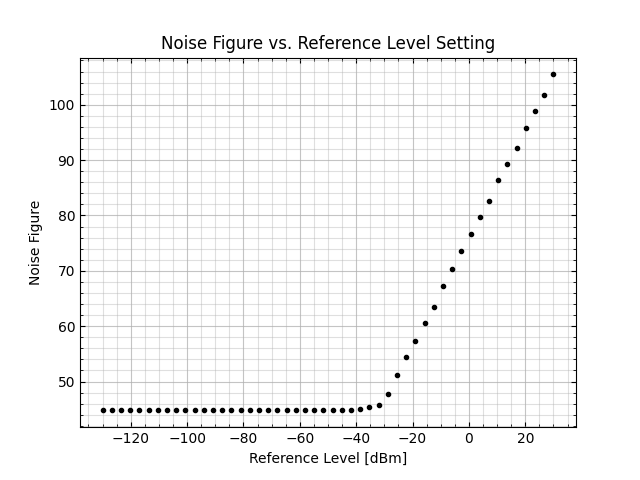
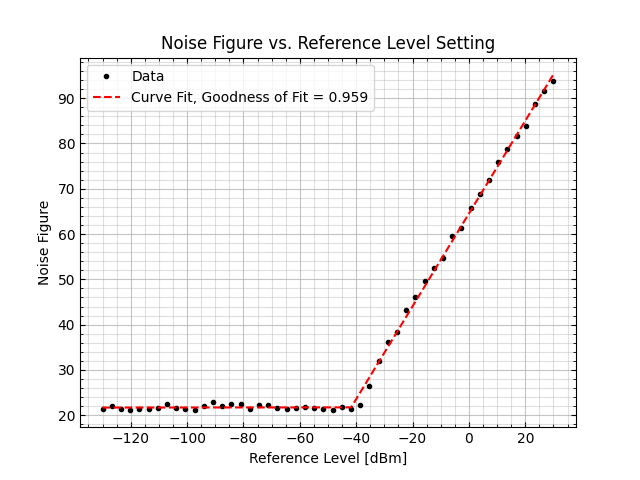
Noise figure updates

Changed region(s): [[0.0312, 0.125, 0.9062, 0.9062]]

diff --git a/testbed.py b/testbed.py
@@ -336,31 +336,21 @@ def sr_test_fft(cf=2.437e9, refLevel=-60, recordLength=1024):
     sr_test_plot(freqArr, meanFFTArr)
     
 # Master function for gain characterization
-def gain_char(minRL, maxRL, numRLs, which="none", hist=False,
+def gain_char(minRL, maxRL, numRLs, noiseFig=False, trunc=False, fftPlot=False, hist=False,
     normTest=False, enbw=False):
-
-    if which is not "figure" and not "power" and not "none":
-        print("Choose either figure, power, or none for the which parameter")
-        return None
 
     # Data collection settings
     recordLength = 1024 # IQ samples per block
     numSets = 1024 # Number of IQ blocks
     cf = 3.6e9 # Center frequency
     iqBw = 40e6 # IQ Bandwidth
-
-    # Variables for calculations
-    k = 1.380649e-23 # J/K, Boltzmann constant
-    T = 294.261 # K, ambient temperature
     
     # Create necessary variables
     compRecLen = numSets*recordLength
     refLev = np.linspace(minRL, maxRL, numRLs)
-    avgNoisePwr = np.zeros_like(refLev)
     iqArr = np.zeros((len(refLev), compRecLen), dtype=complex)
     FFTs = np.zeros((len(refLev), recordLength))
     freqArr = np.zeros((len(refLev), recordLength))
-    ENBW = np.zeros(len(refLev))
 
     connect()
 
@@ -386,48 +376,28 @@ def gain_char(minRL, maxRL, numRLs, which="none", hist=False,
         
     disconnect()
 
-    #if which is not "none":
-    #    # Truncate freq domain data to the set bandwidth (remove tails)
-    #    lowBound = findNearest(freqArr, cf - iqBw/2)
-    #    highBound = findNearest(freqArr, cf + iqBw/2)
-    #    newMeanFFTArr = np.zeros((len(refLev), highBound + 1 - lowBound))
-    #    newFreqArr = np.zeros_like(newMeanFFTArr)
-    #    for (i, arr) in enumerate(freqArr):
-    #        newFreqArr[i] = arr[lowBound:highBound + 1]
-    #    for (i, arr) in enumerate(meanFFTArr):
-    #        newMeanFFTArr[i] = arr[lowBound:highBound + 1]##
-
-    #    # Calculate mean noise powers
-    #    for (i, FFT) in enumerate(newMeanFFTArr):
-    #        avgNoisePwr[i] = np.mean(FFT)#
-
-        # Plot desired noise quantity vs ref level
-       #  noise_plot(refLev, avgNoisePwr, thermalNoise, which=which)
+    if trunc:
+        # Truncate freq domain data to the set bandwidth (remove tails)
+        lowBound = findNearest(freqArr, cf - iqBw/2)
+        highBound = findNearest(freqArr, cf + iqBw/2)
+        newFFTs = np.zeros((len(refLev), highBound + 1 - lowBound))
+        newFreqArr = np.zeros_like(newFFTs)
+        for (i, arr) in enumerate(freqArr):
+            newFreqArr[i] = arr[lowBound:highBound + 1]
+        for (i, FFT) in enumerate(FFTs):
+            newFFTs[i] = FFT[lowBound:highBound + 1]
+        # Replace existing arrays
+        FFTs = newFFTs
+        freqArr = newFreqArr
 
     # Calculate noise figures
-    for (i, RL) in enumerate(refLev):
-        linFFT = 10**(FFTs[i]/10) # translate back to linear domain
-        integral = integ.cumtrapz(np.abs(linFFT/np.max(linFFT))**2, freqArr[i])
-        ENBW[i] = integral[-1]
-        avgNoisePwr[i] = np.mean((np.real(iqArr[i])**2 + np.imag(iqArr[i])**2)/100) # avg power, watts
-    print(ENBW)
-    nf = avgNoisePwr/(k*T*ENBW) # dimensionless, from non-dB
-    nf_dBm = 10*np.log10(nf) # convert to dBm
-    
-    # Plot noise figure vs. ref level
-    fig = plt.figure()
-    ax = fig.add_subplot(111)
-    ax.plot(refLev, nf_dBm, 'k.', label="Noise Figure")
-    ax.set_xlabel("Reference Level [dBm]")
-    ax.set_ylabel("Noise Figure")
-    ax.set_title("Noise Figure vs. Reference Level Setting")
-    ax.grid(which="major", axis="both", alpha=0.75)
-    ax.grid(which="minor", axis="both", alpha=0.4)
-    plt.show()
+    if noiseFig:
+        nf = gainChar_noiseFig(freqArr, FFTs, iqArr, refLev)
+        noiseFig_compPlot(nf, refLev)
 
     # Plot FFT:
-    fft_plot(freqArr[0], FFTs[0], "Avg. Noise Power, RL = -130dBm")
-    fft_plot(freqArr[-1], FFTs[-1], "Avg. Noise Power, RL = +30dBm")
+    if fftPlot:
+        gainChar_fftPlot(freqArr, FFTs, refLev)
 
     # Plot IQ histograms
     if hist:
@@ -437,73 +407,86 @@ def gain_char(minRL, maxRL, numRLs, which="none", hist=False,
     if normTest:
         gainChar_normTests(iqArr, refLev)
 
-    # Calculate equivalent noise bandwidth
-    if enbw:
-        gainChar_enbw(meanFFTArr, refLev)
+def gainChar_noiseFig(freqs, FFTs, IQ, refLevels):
+    # Variables for calculations
+    k = 1.380649e-23 # J/K, Boltzmann constant
+    T = 294.261 # K, ambient temperature
+    avgPwr = np.zeros_like(refLevels)
+    ENBW = gainChar_ENBW(freqs, FFTs, refLevels)
+    for (i, RL) in enumerate(refLevels):
+        avgPwr[i] = np.mean((np.abs(IQ[i])**2)/50) # avg power, watts
 
-def noise_plot(refLev, avgNoisePwr, thermalNoise, which="figure"):
-    # Plots and fits noise vs. ref level data. Use for either noise figure or 
-    # mean noise power vs. ref level, specified by "which" parameter
+    print(ENBW)
 
-    # Handle cases
-    if which == "figure":
-        ydata = avgNoisePwr - thermalNoise
-        quantity = "Noise Figure" # used for title and labels
-        unit = "" # dimensionless
-        p0 = np.array([-30, -110/thermalNoise, 0, 1]) # param guess for fit
-        sigma_y = np.ones_like(ydata)/10 # 1/100 fractional error
-        absErr = False
-    elif which == "power":
-        ydata = avgNoisePwr
-        quantity = "Mean Noise Power"
-        unit = " [dBm]" # appended to quantity for axis label
-        p0 = np.array([-30, -110, 0, 1])
-        sigma_y = np.ones_like(ydata)*4.2 # 4.2 dBm absolute error
-        absErr = True
-    else:
-        print("Please enter either figure or power for the which parameter")
-        return None
+    # Calculate noise figure
+    nf = avgPwr/(k*T*ENBW) # dimensionless, Watts/Watts
+    nf_dBm = 10*np.log10(nf) # convert to dBm
 
-    # Model function for fitter
-    def noise_model(x, x0, y0, k1, k2):
+    return nf_dBm
+
+def noiseFig_compPlot(nf_dBm, refLevels):
+    # Curve fitting
+    # Model function
+    def pw_model(x, x0, y0, k1, k2):
         return np.piecewise(x, [x < x0, x >= x0], [lambda x:k1*x + y0-k1*x0,
             lambda x:k2*x + y0-k2*x0])
+    p0 = np.array([-30, 22, 0, 1])
+    sigma_y = np.ones_like(nf_dBm) # arbitrary error...
+    absErr = True
+    refLevFine = np.linspace(refLevels[0], refLevels[-1], 1000) # For fit plot
 
-    # Curve fitting + fit statistics
-    (p, C) = opt.curve_fit(noise_model, refLev, ydata, sigma=sigma_y, absolute_sigma=absErr)
+    (p, C) = opt.curve_fit(pw_model, refLevels, nf_dBm, sigma=sigma_y, absolute_sigma=absErr)
     sigp = np.sqrt(np.diag(C))
-    chisq = np.sum(((ydata - noise_model(refLev, *p)) ** 2)/(sigma_y ** 2))
-    dof = len(ydata) - len(p) # deg of freedom
+    chisq = np.sum(((nf_dBm - pw_model(refLevels, *p)) ** 2)/(sigma_y ** 2))
+    dof = len(nf_dBm) - len(p) # deg of freedom
     rChiSq = chisq/dof # Reduced Chisq
     Q = sf.gammaincc(0.5*dof, 0.5*chisq) # Goodness of fit
 
     # Print fit statistics
     print("Fit Statistics:\n"
         + "x0 = {:.3f} +/- {:.3f} dBm\n".format(p[0], sigp[0])
-        + "y0 = {:.3f} +/- {:.3f}{}\n".format(p[1], sigp[1], unit)
-        + "m1 = {:.3f} +/- {:.3f} \n".format(p[2], sigp[2])
-        + "m2 = {:.3f} +/- {:.3f} \n".format(p[3], sigp[3])
+        + "y0 = {:.3f} +/- {:.3f}\n".format(p[1], sigp[1])
+        + "m1 = {:.3f} +/- {:.3f}\n".format(p[2], sigp[2])
+        + "m2 = {:.3f} +/- {:.3f}\n".format(p[3], sigp[3])
         + "Chi Squared = {:.3f}\n".format(chisq)
         + "Reduced ChiSq = {:.3f}\n".format(rChiSq)
         + "Degress of Freedom = {}\n".format(dof)
-        + "Goodness of Fit = {:.3f}\n".format(Q)
-    )
-
-    # Plotting
-    refLevFine = np.linspace(refLev[0], refLev[-1], 1000) # For fit plot
-
+        + "Goodness of Fit = {:.3f}\n".format(Q))
+        
+    # Plot noise figure vs. ref level with fit
     fig = plt.figure()
     ax = fig.add_subplot(111)
+    ax.plot(refLevels, nf_dBm, 'k.', label="Data")
+    ax.plot(refLevFine, pw_model(refLevFine, *p), 'r--',
+        label="Curve Fit, Goodness of Fit = {:.3f}".format(Q))
     ax.set_xlabel("Reference Level [dBm]")
-    ax.set_ylabel(quantity + unit)
-    ax.set_title("Tek RSA306b " + quantity + " vs. Reference Level")
+    ax.set_ylabel("Noise Figure")
+    ax.set_title("Noise Figure vs. Reference Level Setting")
     ax.grid(which="major", axis="both", alpha=0.75)
     ax.grid(which="minor", axis="both", alpha=0.4)
-    if which is "power":
-        ax.axhline(thermalNoise, color='c', label="Thermal Noise = {:.3f} dBm".format(thermalNoise))
-    ax.plot(refLev, ydata, 'k.', label=(quantity + " Data"))
-    ax.plot(refLevFine, noise_model(refLevFine, *p), 'r--', label=
-        "Curve Fit, ChiSq = {:.3f}".format(chisq))
+    ax.legend()
+    plt.show()
+
+def gainChar_ENBW(freqs, FFTs, refLevels):
+    # Calculates ENBWs from FFTs for various refLevels
+    # Expects FFTs in power units (dBm)
+    ENBW = np.zeros(len(refLevels))
+    for (i, RL) in enumerate(refLevels):
+        linFFT = 10**((FFTs[i]-30)/10) # Convert dBm to Watts
+        integral = integ.cumtrapz(np.abs(linFFT/np.max(linFFT))**2, freqs[i])
+        ENBW[i] = integral[-1]
+    return ENBW
+
+def gainChar_fftPlot(freqs, FFTs, refLevels):
+    fig = plt.figure()
+    ax = fig.add_subplot(111)
+    ax.set_xlabel("Frequency [Hz]")
+    ax.set_ylabel("Power [dBm]")
+    ax.set_title("Mean Noise FFTs for Various Reference Levels")
+    ax.grid(which="major", axis="both", alpha=0.75)
+    ax.grid(which="minor", axis="both", alpha=0.4)
+    for (i, RL) in enumerate(refLevels):
+        ax.plot(freqs[i], FFTs[i], label="Ref. Level: {:.2f} dBm".format(RL))
     ax.legend()
     plt.show()
 
@@ -633,29 +616,10 @@ def gainChar_normTests(iqData, refLevels):
     # It still works, but temporarily disabled for this reason
     #plt.show()
 
-def gainChar_enbw(FFTs, refLevels):
-    # Currently not working
-    maxI = np.zeros_like(refLevels)
-    maxQ = np.zeros_like(refLevels)
-    integI = np.zeros_like(FFTs)
-    integQ = np.zeros_like(FFTs)
-
-    for (i, iq) in enumerate(FFTs):
-        maxI[i] = np.max(np.real(FFTs[i]))
-        maxQ[i] = np.max(np.imag(FFTs[i]))
-        integI[i] = np.abs(np.real(FFTs[i])/maxI[i])**2
-        integQ[i] = np.abs(np.imag(FFTs[i])/maxQ[i])**2
-
-    print(integ.romb(integI[0]))
-
 def findNearest(arr, val):
     # Return index of array element nearest to value
     idx = np.abs(arr - val).argmin()
     return idx
-
-# IQ Streaming test function
-def iqStreamTest():
-    return None
 
 """ RUN STUFF """
 #iqblk_master(1e9, 0, 40e6, 1024, plot=True, savefig=False)
@@ -663,6 +627,5 @@ def iqStreamTest():
 #wifi_fft(iqBw=2.25e7)
 #sr_test_fft(cf=4000e6)
 #gain_char(-130, 30, 50, which="figure", hist=False)
-gain_char(-130, 30, 50, which="power")
-#gain_char(-130, 30, 2, enbw=True)
-#iqStreamTest()
+#gain_char(-130, 30, 50)
+gain_char(-130, 30, 50, noiseFig=True)
